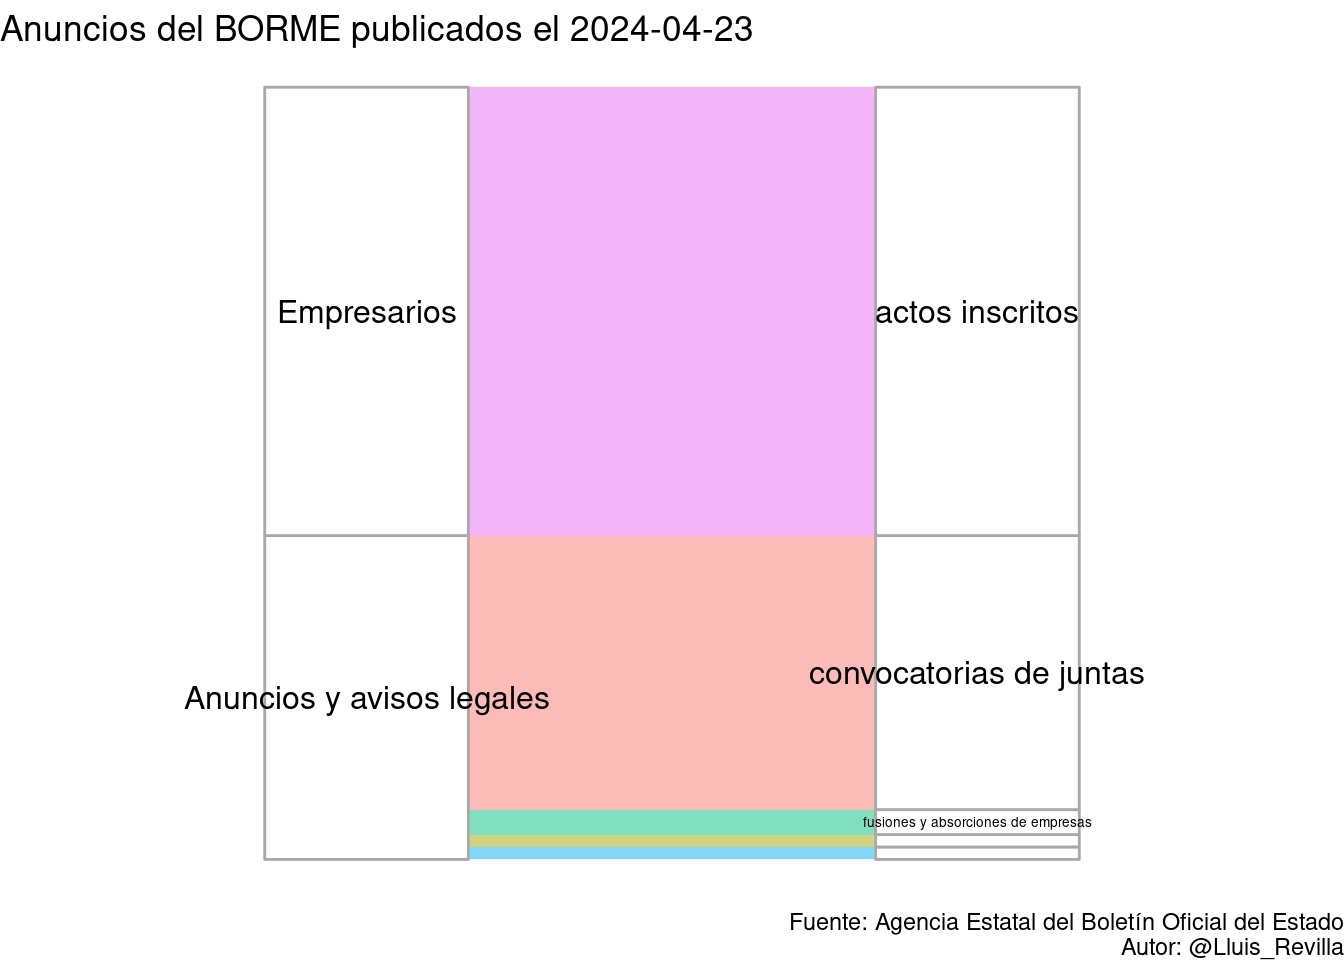
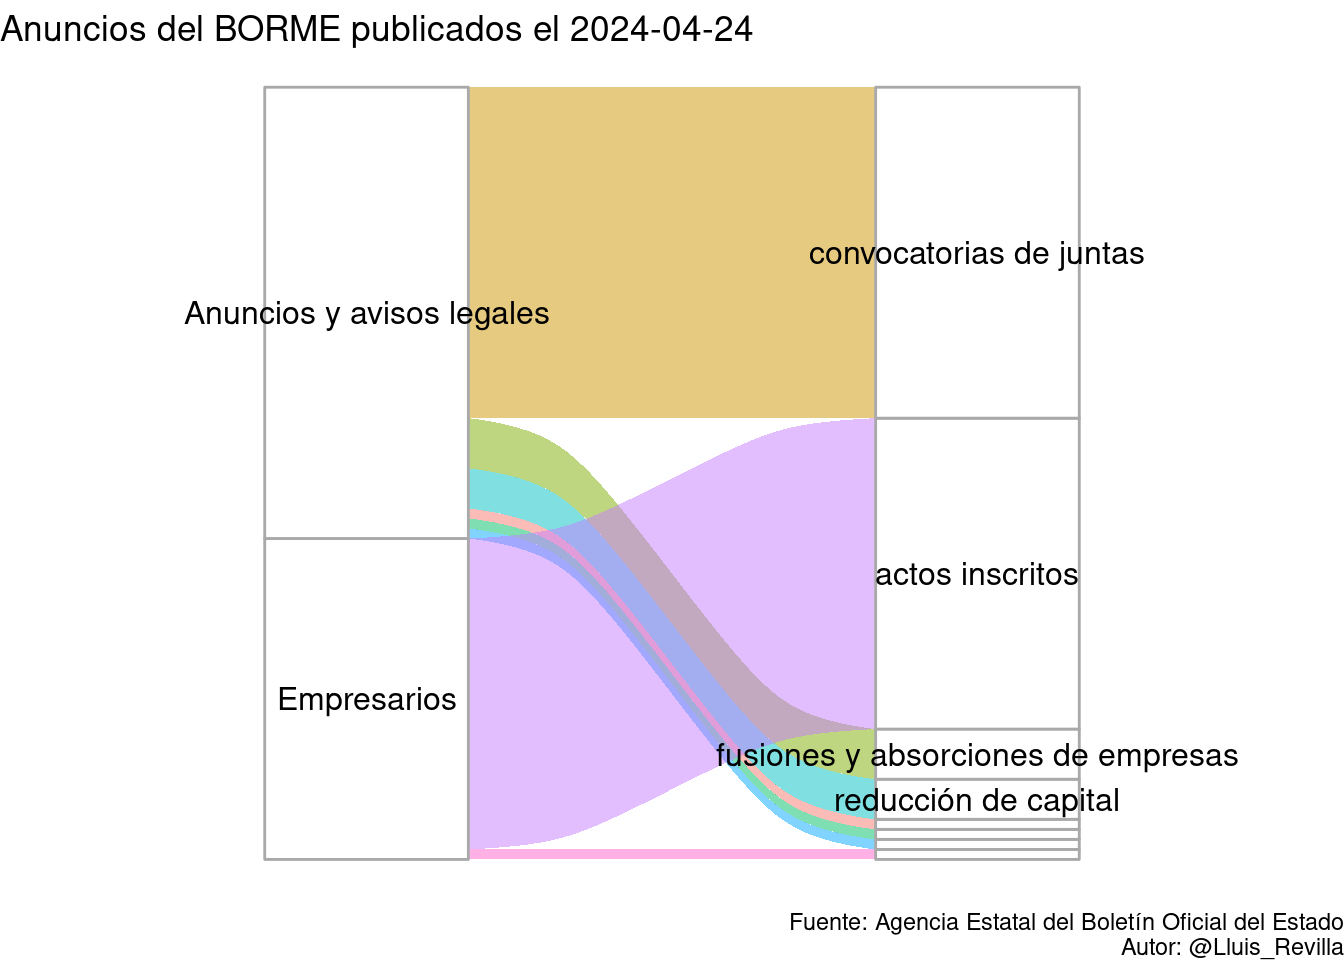
Update BORME

Changed region(s): [[0.125, 0.0938, 0.9375, 0.9062], [0.5312, 0.0, 0.5625, 0.0625]]

diff --git a/docs/last_BORME.html b/docs/last_BORME.html
@@ -379,14 +379,14 @@ $(document).ready(function () {
 
 <div id="resumen-gráfico" class="section level1">
 <h1>Resumen gráfico</h1>
-<p>Esta página web contiene el último sumario del BORME publicado el 2024-04-23 con 62 publicaciones.</p>
+<p>Esta página web contiene el último sumario del BORME publicado el 2024-04-24 con 77 publicaciones.</p>
 <p><img src="last_BORME_files/figure-html/graphics-1.png" width="672" /></p>
 </div>
 <div id="tabla-de-publicaciones" class="section level1">
 <h1>Tabla de publicaciones</h1>
 <p>Aquí está la tabla completa con enlaces a las publicaciones:</p>
-<div class="datatables html-widget html-fill-item-overflow-hidden html-fill-item" id="htmlwidget-5383a246f149107bfffa" style="width:100%;height:auto;"></div>
-<script type="application/json" data-for="htmlwidget-5383a246f149107bfffa">{"x":{"filter":"top","vertical":false,"filterHTML":"<tr>\n  <td><\/td>\n  <td data-type=\"character\" style=\"vertical-align: top;\">\n    <div class=\"form-group has-feedback\" style=\"margin-bottom: auto;\">\n      <input type=\"search\" placeholder=\"All\" class=\"form-control\" style=\"width: 100%;\"/>\n      <span class=\"glyphicon glyphicon-remove-circle form-control-feedback\"><\/span>\n    <\/div>\n  <\/td>\n  <td data-type=\"character\" style=\"vertical-align: top;\">\n    <div class=\"form-group has-feedback\" style=\"margin-bottom: auto;\">\n      <input type=\"search\" placeholder=\"All\" class=\"form-control\" style=\"width: 100%;\"/>\n      <span class=\"glyphicon glyphicon-remove-circle form-control-feedback\"><\/span>\n    <\/div>\n  <\/td>\n  <td data-type=\"character\" style=\"vertical-align: top;\">\n    <div class=\"form-group has-feedback\" style=\"margin-bottom: auto;\">\n      <input type=\"search\" placeholder=\"All\" class=\"form-control\" style=\"width: 100%;\" disabled=\"\"/>\n      <span class=\"glyphicon glyphicon-remove-circle form-control-feedback\"><\/span>\n    <\/div>\n  <\/td>\n  <td data-type=\"character\" style=\"vertical-align: top;\">\n    <div class=\"form-group has-feedback\" style=\"margin-bottom: auto;\">\n      <input type=\"search\" placeholder=\"All\" class=\"form-control\" style=\"width: 100%;\"/>\n      <span class=\"glyphicon glyphicon-remove-circle form-control-feedback\"><\/span>\n    <\/div>\n  <\/td>\n<\/tr>","data":[["1","2","3","4","5","6","7","8","9","10","11","12","13","14","15","16","17","18","19","20","21","22","23","24","25","26","27","28","29","30","31","32","33","34","35","36","37","38","39","40","41","42","43","44","45","46","47","48","49","50","51","52","53","54","55","56","57","58","59","60","61","62"],["SECCIÓN PRIMERA. Empresarios","SECCIÓN PRIMERA. Empresarios","SECCIÓN PRIMERA. Empresarios","SECCIÓN PRIMERA. Empresarios","SECCIÓN PRIMERA. Empresarios","SECCIÓN PRIMERA. Empresarios","SECCIÓN PRIMERA. Empresarios","SECCIÓN PRIMERA. Empresarios","SECCIÓN PRIMERA. Empresarios","SECCIÓN PRIMERA. Empresarios","SECCIÓN PRIMERA. Empresarios","SECCIÓN PRIMERA. Empresarios","SECCIÓN PRIMERA. Empresarios","SECCIÓN PRIMERA. Empresarios","SECCIÓN PRIMERA. Empresarios","SECCIÓN PRIMERA. Empresarios","SECCIÓN PRIMERA. Empresarios","SECCIÓN PRIMERA. Empresarios","SECCIÓN PRIMERA. Empresarios","SECCIÓN PRIMERA. Empresarios","SECCIÓN PRIMERA. Empresarios","SECCIÓN PRIMERA. Empresarios","SECCIÓN PRIMERA. Empresarios","SECCIÓN PRIMERA. Empresarios","SECCIÓN PRIMERA. Empresarios","SECCIÓN PRIMERA. Empresarios","SECCIÓN PRIMERA. Empresarios","SECCIÓN PRIMERA. Empresarios","SECCIÓN PRIMERA. Empresarios","SECCIÓN PRIMERA. Empresarios","SECCIÓN PRIMERA. Empresarios","SECCIÓN PRIMERA. Empresarios","SECCIÓN PRIMERA. Empresarios","SECCIÓN PRIMERA. Empresarios","SECCIÓN PRIMERA. Empresarios","SECCIÓN PRIMERA. Empresarios","SECCIÓN SEGUNDA. Anuncios y avisos legales","SECCIÓN SEGUNDA. Anuncios y avisos legales","SECCIÓN SEGUNDA. Anuncios y avisos legales","SECCIÓN SEGUNDA. Anuncios y avisos legales","SECCIÓN SEGUNDA. Anuncios y avisos legales","SECCIÓN SEGUNDA. Anuncios y avisos legales","SECCIÓN SEGUNDA. Anuncios y avisos legales","SECCIÓN SEGUNDA. Anuncios y avisos legales","SECCIÓN SEGUNDA. Anuncios y avisos legales","SECCIÓN SEGUNDA. Anuncios y avisos legales","SECCIÓN SEGUNDA. Anuncios y avisos legales","SECCIÓN SEGUNDA. Anuncios y avisos legales","SECCIÓN SEGUNDA. Anuncios y avisos legales","SECCIÓN SEGUNDA. Anuncios y avisos legales","SECCIÓN SEGUNDA. Anuncios y avisos legales","SECCIÓN SEGUNDA. Anuncios y avisos legales","SECCIÓN SEGUNDA. Anuncios y avisos legales","SECCIÓN SEGUNDA. Anuncios y avisos legales","SECCIÓN SEGUNDA. Anuncios y avisos legales","SECCIÓN SEGUNDA. Anuncios y avisos legales","SECCIÓN SEGUNDA. Anuncios y avisos legales","SECCIÓN SEGUNDA. Anuncios y avisos legales","SECCIÓN SEGUNDA. Anuncios y avisos legales","SECCIÓN SEGUNDA. Anuncios y avisos legales","SECCIÓN SEGUNDA. Anuncios y avisos legales","SECCIÓN SEGUNDA. Anuncios y avisos legales"],["Actos inscritos","Actos inscritos","Actos inscritos","Actos inscritos","Actos inscritos","Actos inscritos","Actos inscritos","Actos inscritos","Actos inscritos","Actos inscritos","Actos inscritos","Actos inscritos","Actos inscritos","Actos inscritos","Actos inscritos","Actos inscritos","Actos inscritos","Actos inscritos","Actos inscritos","Actos inscritos","Actos inscritos","Actos inscritos","Actos inscritos","Actos inscritos","Actos inscritos","Actos inscritos","Actos inscritos","Actos inscritos","Actos inscritos","Actos inscritos","Actos inscritos","Actos inscritos","Actos inscritos","Actos inscritos","Actos inscritos","Actos inscritos","CONVOCATORIAS DE JUNTAS","CONVOCATORIAS DE JUNTAS","CONVOCATORIAS DE JUNTAS","CONVOCATORIAS DE JUNTAS","CONVOCATORIAS DE JUNTAS","CONVOCATORIAS DE JUNTAS","CONVOCATORIAS DE JUNTAS","CONVOCATORIAS DE JUNTAS","CONVOCATORIAS DE JUNTAS","CONVOCATORIAS DE JUNTAS","CONVOCATORIAS DE JUNTAS","CONVOCATORIAS DE JUNTAS","CONVOCATORIAS DE JUNTAS","CONVOCATORIAS DE JUNTAS","CONVOCATORIAS DE JUNTAS","CONVOCATORIAS DE JUNTAS","CONVOCATORIAS DE JUNTAS","CONVOCATORIAS DE JUNTAS","CONVOCATORIAS DE JUNTAS","CONVOCATORIAS DE JUNTAS","CONVOCATORIAS DE JUNTAS","CONVOCATORIAS DE JUNTAS","FUSIONES Y ABSORCIONES DE EMPRESAS","FUSIONES Y ABSORCIONES DE EMPRESAS","ESCISIÓN DE EMPRESAS","TRANSFORMACIÓN DE EMPRESAS"],[null,null,null,null,null,null,null,null,null,null,null,null,null,null,null,null,null,null,null,null,null,null,null,null,null,null,null,null,null,null,null,null,null,null,null,null,null,null,null,null,null,null,null,null,null,null,null,null,null,null,null,null,null,null,null,null,null,null,null,null,null,null],["BORME-A-2024-79-02","BORME-A-2024-79-03","BORME-A-2024-79-04","BORME-A-2024-79-06","BORME-A-2024-79-07","BORME-A-2024-79-08","BORME-A-2024-79-09","BORME-A-2024-79-10","BORME-A-2024-79-11","BORME-A-2024-79-13","BORME-A-2024-79-15","BORME-A-2024-79-17","BORME-A-2024-79-18","BORME-A-2024-79-21","BORME-A-2024-79-22","BORME-A-2024-79-23","BORME-A-2024-79-24","BORME-A-2024-79-28","BORME-A-2024-79-29","BORME-A-2024-79-30","BORME-A-2024-79-31","BORME-A-2024-79-33","BORME-A-2024-79-35","BORME-A-2024-79-36","BORME-A-2024-79-40","BORME-A-2024-79-41","BORME-A-2024-79-42","BORME-A-2024-79-43","BORME-A-2024-79-45","BORME-A-2024-79-46","BORME-A-2024-79-47","BORME-A-2024-79-48","BORME-A-2024-79-49","BORME-A-2024-79-50","BORME-A-2024-79-52","BORME-A-2024-79-99","BORME-C-2024-1497","BORME-C-2024-1498","BORME-C-2024-1499","BORME-C-2024-1500","BORME-C-2024-1501","BORME-C-2024-1502","BORME-C-2024-1503","BORME-C-2024-1504","BORME-C-2024-1505","BORME-C-2024-1506","BORME-C-2024-1507","BORME-C-2024-1508","BORME-C-2024-1509","BORME-C-2024-1510","BORME-C-2024-1511","BORME-C-2024-1512","BORME-C-2024-1513","BORME-C-2024-1514","BORME-C-2024-1515","BORME-C-2024-1516","BORME-C-2024-1517","BORME-C-2024-1518","BORME-C-2024-1519","BORME-C-2024-1520","BORME-C-2024-1521","BORME-C-2024-1522"]],"container":"<table class=\"display\">\n  <thead>\n    <tr>\n      <th> <\/th>\n      <th>Sección<\/th>\n      <th>Emisor<\/th>\n      <th>Texto<\/th>\n      <th>Link<\/th>\n    <\/tr>\n  <\/thead>\n<\/table>","options":{"pageLength":10,"autoWidth":true,"columnDefs":[{"orderable":false,"targets":0},{"name":" ","targets":0},{"name":"Sección","targets":1},{"name":"Emisor","targets":2},{"name":"Texto","targets":3},{"name":"Link","targets":4}],"order":[],"orderClasses":false,"orderCellsTop":true}},"evals":[],"jsHooks":[]}</script>
+<div class="datatables html-widget html-fill-item-overflow-hidden html-fill-item" id="htmlwidget-4eb15012eb17e3708d71" style="width:100%;height:auto;"></div>
+<script type="application/json" data-for="htmlwidget-4eb15012eb17e3708d71">{"x":{"filter":"top","vertical":false,"filterHTML":"<tr>\n  <td><\/td>\n  <td data-type=\"character\" style=\"vertical-align: top;\">\n    <div class=\"form-group has-feedback\" style=\"margin-bottom: auto;\">\n      <input type=\"search\" placeholder=\"All\" class=\"form-control\" style=\"width: 100%;\"/>\n      <span class=\"glyphicon glyphicon-remove-circle form-control-feedback\"><\/span>\n    <\/div>\n  <\/td>\n  <td data-type=\"character\" style=\"vertical-align: top;\">\n    <div class=\"form-group has-feedback\" style=\"margin-bottom: auto;\">\n      <input type=\"search\" placeholder=\"All\" class=\"form-control\" style=\"width: 100%;\"/>\n      <span class=\"glyphicon glyphicon-remove-circle form-control-feedback\"><\/span>\n    <\/div>\n  <\/td>\n  <td data-type=\"character\" style=\"vertical-align: top;\">\n    <div class=\"form-group has-feedback\" style=\"margin-bottom: auto;\">\n      <input type=\"search\" placeholder=\"All\" class=\"form-control\" style=\"width: 100%;\" disabled=\"\"/>\n      <span class=\"glyphicon glyphicon-remove-circle form-control-feedback\"><\/span>\n    <\/div>\n  <\/td>\n  <td data-type=\"character\" style=\"vertical-align: top;\">\n    <div class=\"form-group has-feedback\" style=\"margin-bottom: auto;\">\n      <input type=\"search\" placeholder=\"All\" class=\"form-control\" style=\"width: 100%;\"/>\n      <span class=\"glyphicon glyphicon-remove-circle form-control-feedback\"><\/span>\n    <\/div>\n  <\/td>\n<\/tr>","data":[["1","2","3","4","5","6","7","8","9","10","11","12","13","14","15","16","17","18","19","20","21","22","23","24","25","26","27","28","29","30","31","32","33","34","35","36","37","38","39","40","41","42","43","44","45","46","47","48","49","50","51","52","53","54","55","56","57","58","59","60","61","62","63","64","65","66","67","68","69","70","71","72","73","74","75","76","77"],["SECCIÓN PRIMERA. Empresarios","SECCIÓN PRIMERA. Empresarios","SECCIÓN PRIMERA. Empresarios","SECCIÓN PRIMERA. Empresarios","SECCIÓN PRIMERA. Empresarios","SECCIÓN PRIMERA. Empresarios","SECCIÓN PRIMERA. Empresarios","SECCIÓN PRIMERA. Empresarios","SECCIÓN PRIMERA. Empresarios","SECCIÓN PRIMERA. Empresarios","SECCIÓN PRIMERA. Empresarios","SECCIÓN PRIMERA. Empresarios","SECCIÓN PRIMERA. Empresarios","SECCIÓN PRIMERA. Empresarios","SECCIÓN PRIMERA. Empresarios","SECCIÓN PRIMERA. Empresarios","SECCIÓN PRIMERA. Empresarios","SECCIÓN PRIMERA. Empresarios","SECCIÓN PRIMERA. Empresarios","SECCIÓN PRIMERA. Empresarios","SECCIÓN PRIMERA. Empresarios","SECCIÓN PRIMERA. Empresarios","SECCIÓN PRIMERA. Empresarios","SECCIÓN PRIMERA. Empresarios","SECCIÓN PRIMERA. Empresarios","SECCIÓN PRIMERA. Empresarios","SECCIÓN PRIMERA. Empresarios","SECCIÓN PRIMERA. Empresarios","SECCIÓN PRIMERA. Empresarios","SECCIÓN PRIMERA. Empresarios","SECCIÓN PRIMERA. Empresarios","SECCIÓN PRIMERA. Empresarios","SECCIÓN SEGUNDA. Anuncios y avisos legales","SECCIÓN SEGUNDA. Anuncios y avisos legales","SECCIÓN SEGUNDA. Anuncios y avisos legales","SECCIÓN SEGUNDA. Anuncios y avisos legales","SECCIÓN SEGUNDA. Anuncios y avisos legales","SECCIÓN SEGUNDA. Anuncios y avisos legales","SECCIÓN SEGUNDA. Anuncios y avisos legales","SECCIÓN SEGUNDA. Anuncios y avisos legales","SECCIÓN SEGUNDA. Anuncios y avisos legales","SECCIÓN SEGUNDA. Anuncios y avisos legales","SECCIÓN SEGUNDA. Anuncios y avisos legales","SECCIÓN SEGUNDA. Anuncios y avisos legales","SECCIÓN SEGUNDA. Anuncios y avisos legales","SECCIÓN SEGUNDA. Anuncios y avisos legales","SECCIÓN SEGUNDA. Anuncios y avisos legales","SECCIÓN SEGUNDA. Anuncios y avisos legales","SECCIÓN SEGUNDA. Anuncios y avisos legales","SECCIÓN SEGUNDA. Anuncios y avisos legales","SECCIÓN SEGUNDA. Anuncios y avisos legales","SECCIÓN SEGUNDA. Anuncios y avisos legales","SECCIÓN SEGUNDA. Anuncios y avisos legales","SECCIÓN SEGUNDA. Anuncios y avisos legales","SECCIÓN SEGUNDA. Anuncios y avisos legales","SECCIÓN SEGUNDA. Anuncios y avisos legales","SECCIÓN SEGUNDA. Anuncios y avisos legales","SECCIÓN SEGUNDA. Anuncios y avisos legales","SECCIÓN SEGUNDA. Anuncios y avisos legales","SECCIÓN SEGUNDA. Anuncios y avisos legales","SECCIÓN SEGUNDA. Anuncios y avisos legales","SECCIÓN SEGUNDA. Anuncios y avisos legales","SECCIÓN SEGUNDA. Anuncios y avisos legales","SECCIÓN SEGUNDA. Anuncios y avisos legales","SECCIÓN SEGUNDA. Anuncios y avisos legales","SECCIÓN SEGUNDA. Anuncios y avisos legales","SECCIÓN SEGUNDA. Anuncios y avisos legales","SECCIÓN SEGUNDA. Anuncios y avisos legales","SECCIÓN SEGUNDA. Anuncios y avisos legales","SECCIÓN SEGUNDA. Anuncios y avisos legales","SECCIÓN SEGUNDA. Anuncios y avisos legales","SECCIÓN SEGUNDA. Anuncios y avisos legales","SECCIÓN SEGUNDA. Anuncios y avisos legales","SECCIÓN SEGUNDA. Anuncios y avisos legales","SECCIÓN SEGUNDA. Anuncios y avisos legales","SECCIÓN SEGUNDA. Anuncios y avisos legales","SECCIÓN SEGUNDA. Anuncios y avisos legales"],["Actos inscritos","Actos inscritos","Actos inscritos","Actos inscritos","Actos inscritos","Actos inscritos","Actos inscritos","Actos inscritos","Actos inscritos","Actos inscritos","Actos inscritos","Actos inscritos","Actos inscritos","Actos inscritos","Actos inscritos","Actos inscritos","Actos inscritos","Actos inscritos","Actos inscritos","Actos inscritos","Actos inscritos","Actos inscritos","Actos inscritos","Actos inscritos","Actos inscritos","Actos inscritos","Actos inscritos","Actos inscritos","Actos inscritos","Actos inscritos","Actos inscritos","Otros actos publicados en el Registro Mercantil","CONVOCATORIAS DE JUNTAS","CONVOCATORIAS DE JUNTAS","CONVOCATORIAS DE JUNTAS","CONVOCATORIAS DE JUNTAS","CONVOCATORIAS DE JUNTAS","CONVOCATORIAS DE JUNTAS","CONVOCATORIAS DE JUNTAS","CONVOCATORIAS DE JUNTAS","CONVOCATORIAS DE JUNTAS","CONVOCATORIAS DE JUNTAS","CONVOCATORIAS DE JUNTAS","CONVOCATORIAS DE JUNTAS","CONVOCATORIAS DE JUNTAS","CONVOCATORIAS DE JUNTAS","CONVOCATORIAS DE JUNTAS","CONVOCATORIAS DE JUNTAS","CONVOCATORIAS DE JUNTAS","CONVOCATORIAS DE JUNTAS","CONVOCATORIAS DE JUNTAS","CONVOCATORIAS DE JUNTAS","CONVOCATORIAS DE JUNTAS","CONVOCATORIAS DE JUNTAS","CONVOCATORIAS DE JUNTAS","CONVOCATORIAS DE JUNTAS","CONVOCATORIAS DE JUNTAS","CONVOCATORIAS DE JUNTAS","CONVOCATORIAS DE JUNTAS","CONVOCATORIAS DE JUNTAS","CONVOCATORIAS DE JUNTAS","CONVOCATORIAS DE JUNTAS","CONVOCATORIAS DE JUNTAS","CONVOCATORIAS DE JUNTAS","CONVOCATORIAS DE JUNTAS","FUSIONES Y ABSORCIONES DE EMPRESAS","FUSIONES Y ABSORCIONES DE EMPRESAS","FUSIONES Y ABSORCIONES DE EMPRESAS","FUSIONES Y ABSORCIONES DE EMPRESAS","FUSIONES Y ABSORCIONES DE EMPRESAS","TRANSFORMACIÓN DE EMPRESAS","AUMENTO DE CAPITAL","REDUCCIÓN DE CAPITAL","REDUCCIÓN DE CAPITAL","REDUCCIÓN DE CAPITAL","REDUCCIÓN DE CAPITAL","OTROS ANUNCIOS Y AVISOS LEGALES"],[null,null,null,null,null,null,null,null,null,null,null,null,null,null,null,null,null,null,null,null,null,null,null,null,null,null,null,null,null,null,null,null,null,null,null,null,null,null,null,null,null,null,null,null,null,null,null,null,null,null,null,null,null,null,null,null,null,null,null,null,null,null,null,null,null,null,null,null,null,null,null,null,null,null,null,null,null],["BORME-A-2024-80-02","BORME-A-2024-80-03","BORME-A-2024-80-04","BORME-A-2024-80-06","BORME-A-2024-80-08","BORME-A-2024-80-10","BORME-A-2024-80-11","BORME-A-2024-80-12","BORME-A-2024-80-14","BORME-A-2024-80-15","BORME-A-2024-80-18","BORME-A-2024-80-22","BORME-A-2024-80-23","BORME-A-2024-80-24","BORME-A-2024-80-25","BORME-A-2024-80-28","BORME-A-2024-80-29","BORME-A-2024-80-30","BORME-A-2024-80-32","BORME-A-2024-80-34","BORME-A-2024-80-35","BORME-A-2024-80-36","BORME-A-2024-80-38","BORME-A-2024-80-40","BORME-A-2024-80-43","BORME-A-2024-80-45","BORME-A-2024-80-46","BORME-A-2024-80-47","BORME-A-2024-80-49","BORME-A-2024-80-51","BORME-A-2024-80-99","BORME-B-2024-80-28","BORME-C-2024-1523","BORME-C-2024-1524","BORME-C-2024-1525","BORME-C-2024-1526","BORME-C-2024-1527","BORME-C-2024-1528","BORME-C-2024-1529","BORME-C-2024-1530","BORME-C-2024-1531","BORME-C-2024-1532","BORME-C-2024-1533","BORME-C-2024-1534","BORME-C-2024-1535","BORME-C-2024-1536","BORME-C-2024-1537","BORME-C-2024-1538","BORME-C-2024-1539","BORME-C-2024-1540","BORME-C-2024-1541","BORME-C-2024-1542","BORME-C-2024-1543","BORME-C-2024-1544","BORME-C-2024-1545","BORME-C-2024-1546","BORME-C-2024-1547","BORME-C-2024-1548","BORME-C-2024-1549","BORME-C-2024-1550","BORME-C-2024-1551","BORME-C-2024-1552","BORME-C-2024-1553","BORME-C-2024-1554","BORME-C-2024-1555","BORME-C-2024-1556","BORME-C-2024-1557","BORME-C-2024-1558","BORME-C-2024-1559","BORME-C-2024-1560","BORME-C-2024-1561","BORME-C-2024-1562","BORME-C-2024-1563","BORME-C-2024-1564","BORME-C-2024-1565","BORME-C-2024-1566","BORME-C-2024-1567"]],"container":"<table class=\"display\">\n  <thead>\n    <tr>\n      <th> <\/th>\n      <th>Sección<\/th>\n      <th>Emisor<\/th>\n      <th>Texto<\/th>\n      <th>Link<\/th>\n    <\/tr>\n  <\/thead>\n<\/table>","options":{"pageLength":10,"autoWidth":true,"columnDefs":[{"orderable":false,"targets":0},{"name":" ","targets":0},{"name":"Sección","targets":1},{"name":"Emisor","targets":2},{"name":"Texto","targets":3},{"name":"Link","targets":4}],"order":[],"orderClasses":false,"orderCellsTop":true}},"evals":[],"jsHooks":[]}</script>
 </div>
 
 
